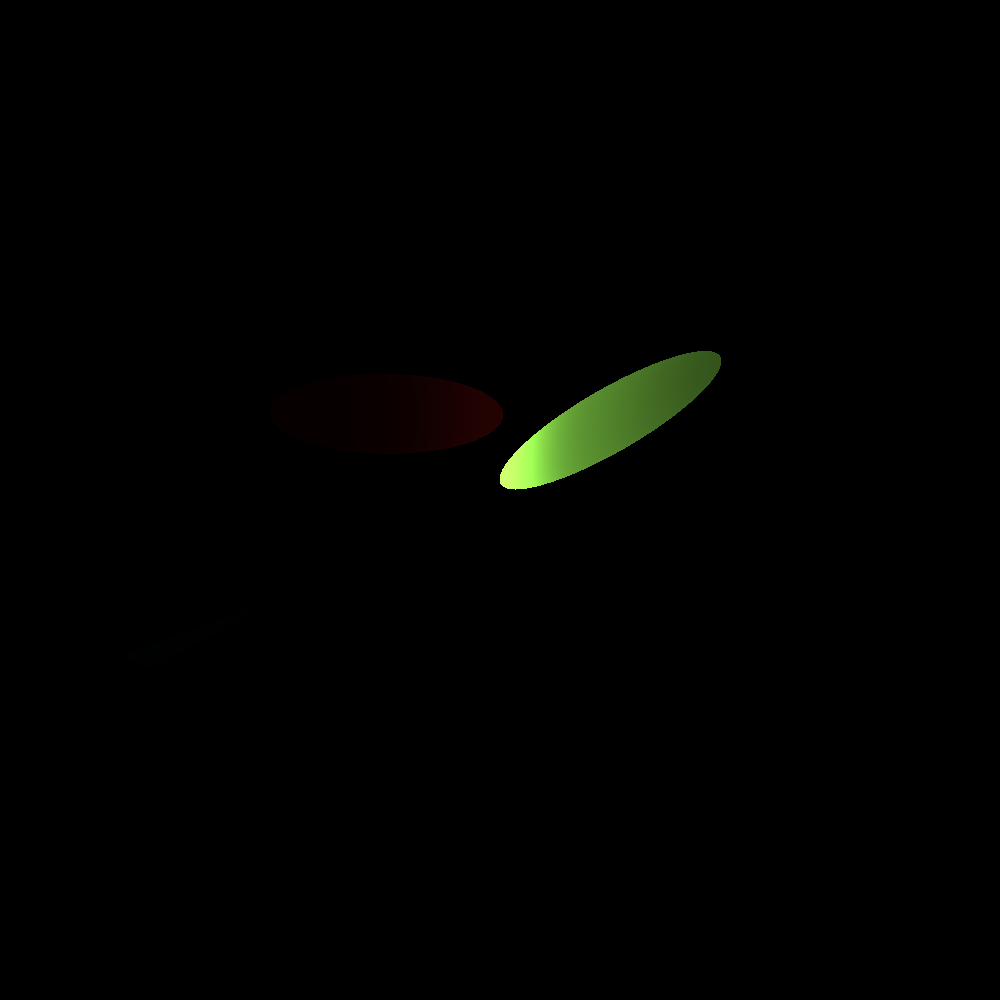
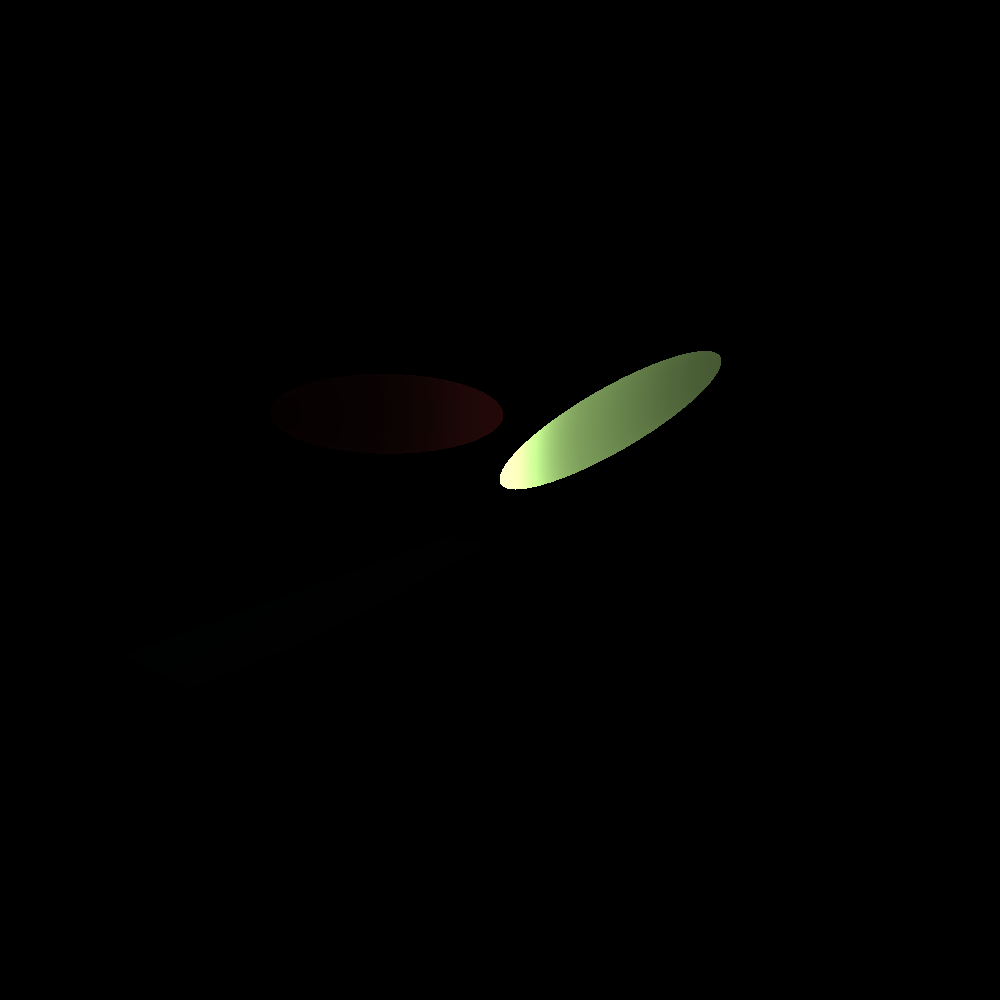
even more

Changed region(s): [[0.496, 0.341, 0.713, 0.496]]

diff --git a/RayTracer.c b/RayTracer.c
@@ -314,9 +314,9 @@ void rayTrace(struct ray3D *ray, int depth, struct colourRGB *col, struct object
 					//printf("intersected!!!");
 					rtShade(obj, &p, &n, ray, depth, a, b, &I);
 					
-					col->R = I.R;//obj->col.R;
-					col->G = I.G;//obj->col.G;
-					col->B = I.B;//obj->col.B;
+					col->R += 0.5*I.R;//obj->col.R;
+					col->G += 0.5*I.G;//obj->col.G;
+					col->B += 0.5*I.B;//obj->col.B;
 					//printf("RGB %f, %f, %f\n", col->R, col->G, col->B);
 					
 				}else{ //don't color the shadow
